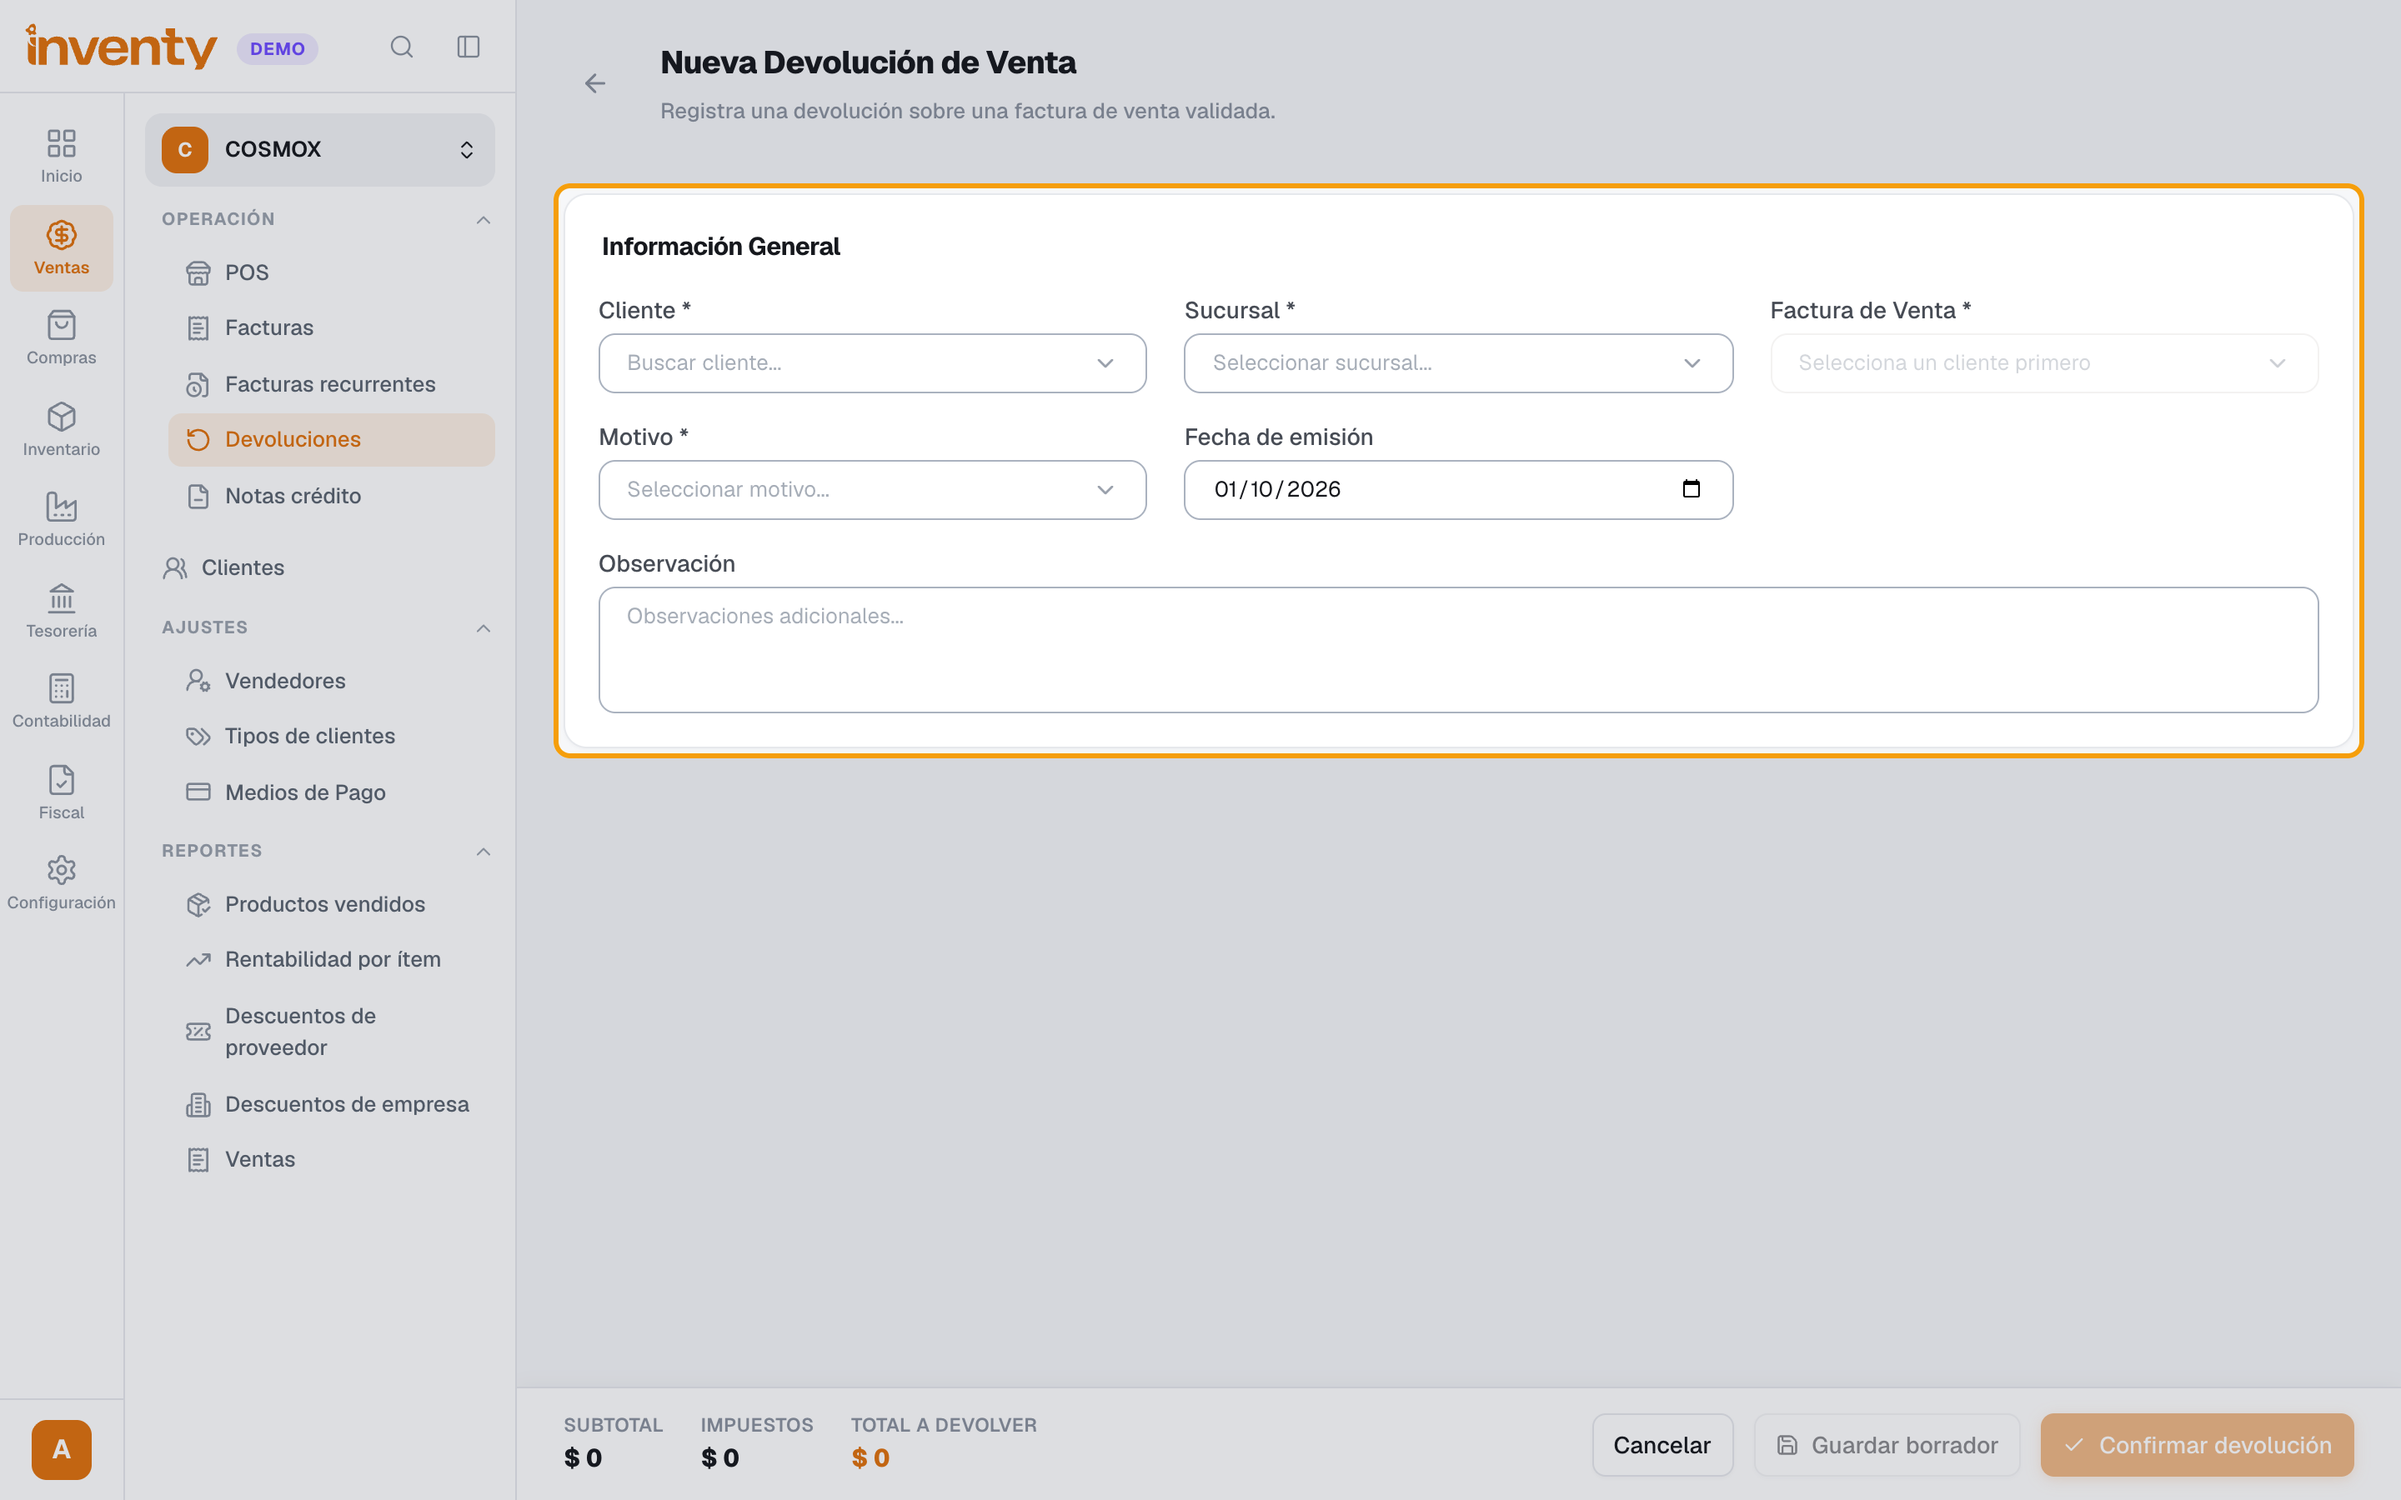
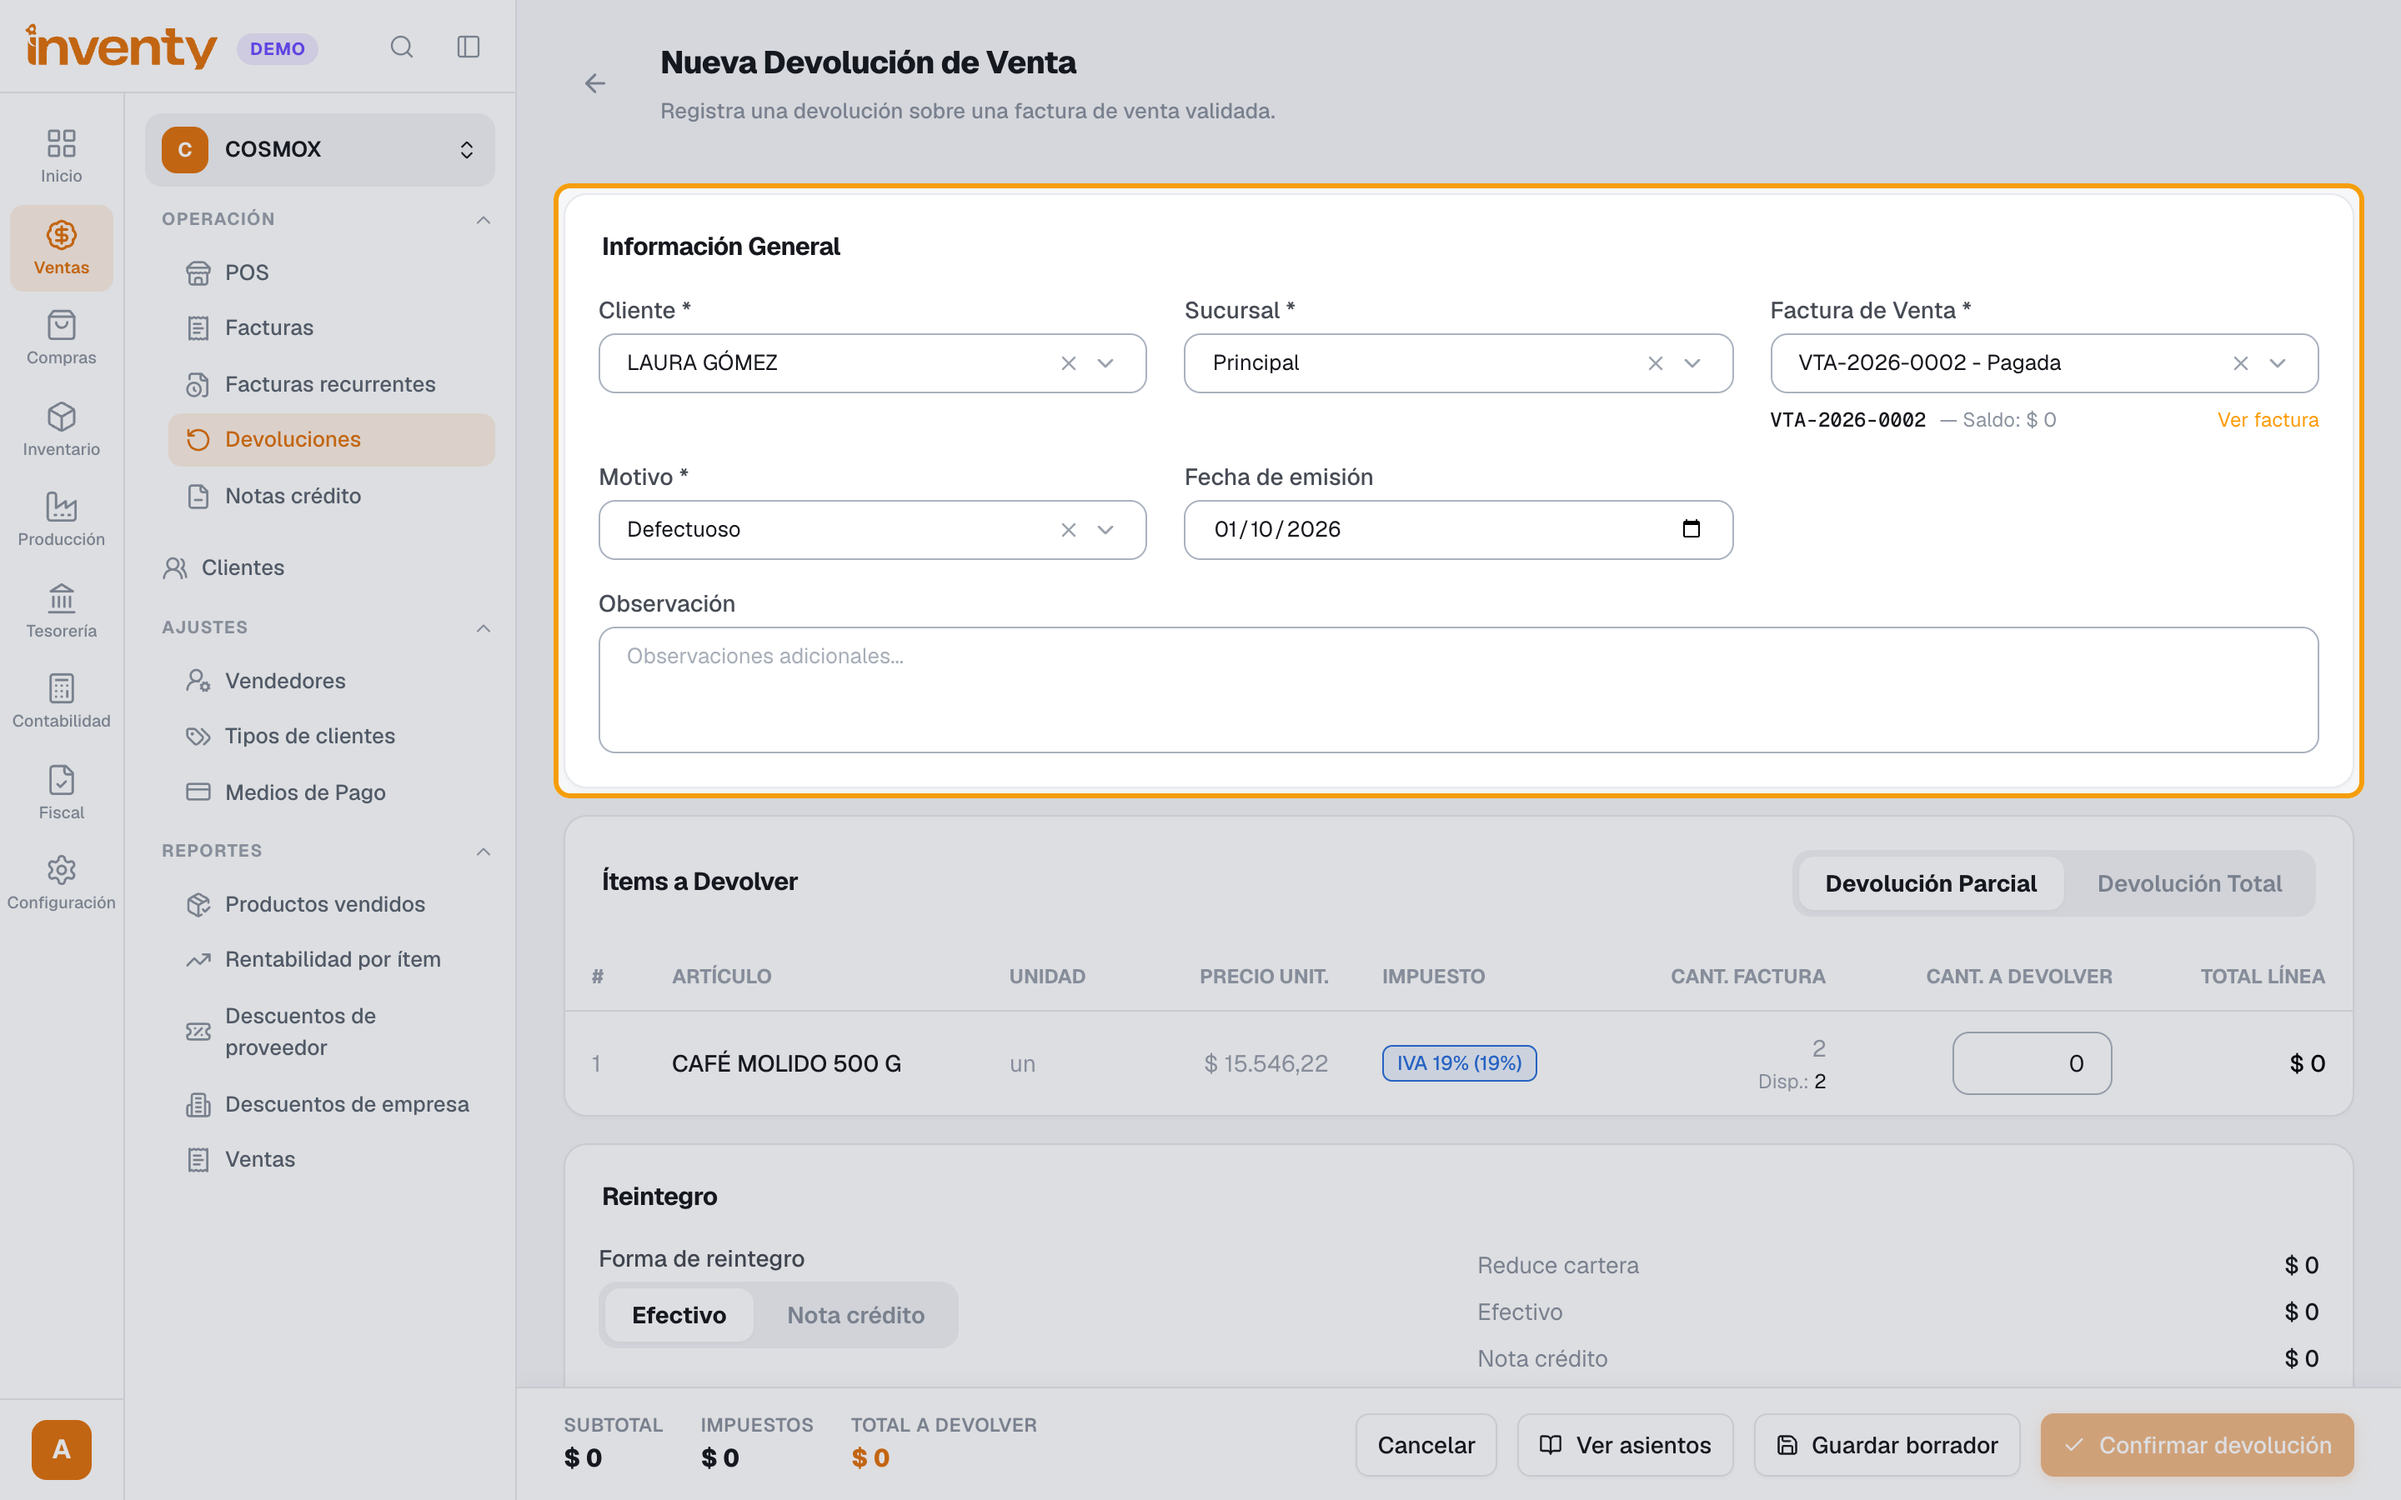
feat: devolución real con nota crédito a favor en la demo; guía con paso de Reintegro

diff --git a/docs/ventas/devolucion-venta.md b/docs/ventas/devolucion-venta.md
@@ -31,15 +31,19 @@ tags:
 
 ![Paso 2: información general de la devolución](../assets/capturas/ventas/devolucion-venta/paso-2.png)
 
-**Paso 3.** En **Ítems a Devolver**, elige **Devolución Total** o **Devolución Parcial** e indica las cantidades.
+**Paso 3.** En **Ítems a Devolver**, elige **Devolución Parcial** o **Devolución Total**. En parcial, escribe la **Cant. a devolver** de cada producto.
 
 ![Paso 3: ítems a devolver](../assets/capturas/ventas/devolucion-venta/paso-3.png)
 
-**Paso 4.** Revisa el **Total a devolver** y confirma la devolución.
+**Paso 4.** En **Reintegro**, elige cómo le devuelves el dinero al cliente: **Efectivo** (sale de tu caja) o **Nota crédito** (queda como saldo a favor para su próxima compra). Revisa **Reduce cartera**, **Efectivo** y **Nota crédito**.
 
-![Paso 4: total y confirmación](../assets/capturas/ventas/devolucion-venta/paso-4.png)
+![Paso 4: forma de reintegro](../assets/capturas/ventas/devolucion-venta/paso-4.png)
 
-✅ **Listo:** la devolución queda **Confirmada**, el inventario vuelve y la factura muestra *Devolución total* o *parcial*. Si emites automático, se envía la **nota crédito** a la DIAN.
+**Paso 5.** Revisa el **Total a devolver**, haz clic en **Confirmar devolución** y confirma.
+
+![Paso 5: botón Confirmar devolución](../assets/capturas/ventas/devolucion-venta/paso-5.png)
+
+✅ **Listo:** la devolución queda **Confirmada**, el inventario vuelve y la factura muestra *Devolución total* o *parcial*. Si elegiste **Nota crédito**, el cliente queda con saldo a favor (<span class="ruta">Ventas › Notas crédito</span>). Si emites automático, se envía la nota crédito electrónica a la DIAN.
 
 ## Si algo falla
 

diff --git a/gestion/capturas-reporte.md b/gestion/capturas-reporte.md
@@ -1,5 +1,5 @@
 # Reporte de capturas
 
-> Generado por `npm run capturas` el 1/10/2026, 12:44:02 p. m.. Ambiente: https://erp.cosmox.tech
+> Generado por `npm run capturas` el 1/10/2026, 12:52:16 p. m.. Ambiente: https://erp.cosmox.tech
 
-**5** capturas tomadas · **0** fallas · **60** imágenes siguen pendientes.
+**5** capturas tomadas · **0** fallas · **58** imágenes siguen pendientes.
